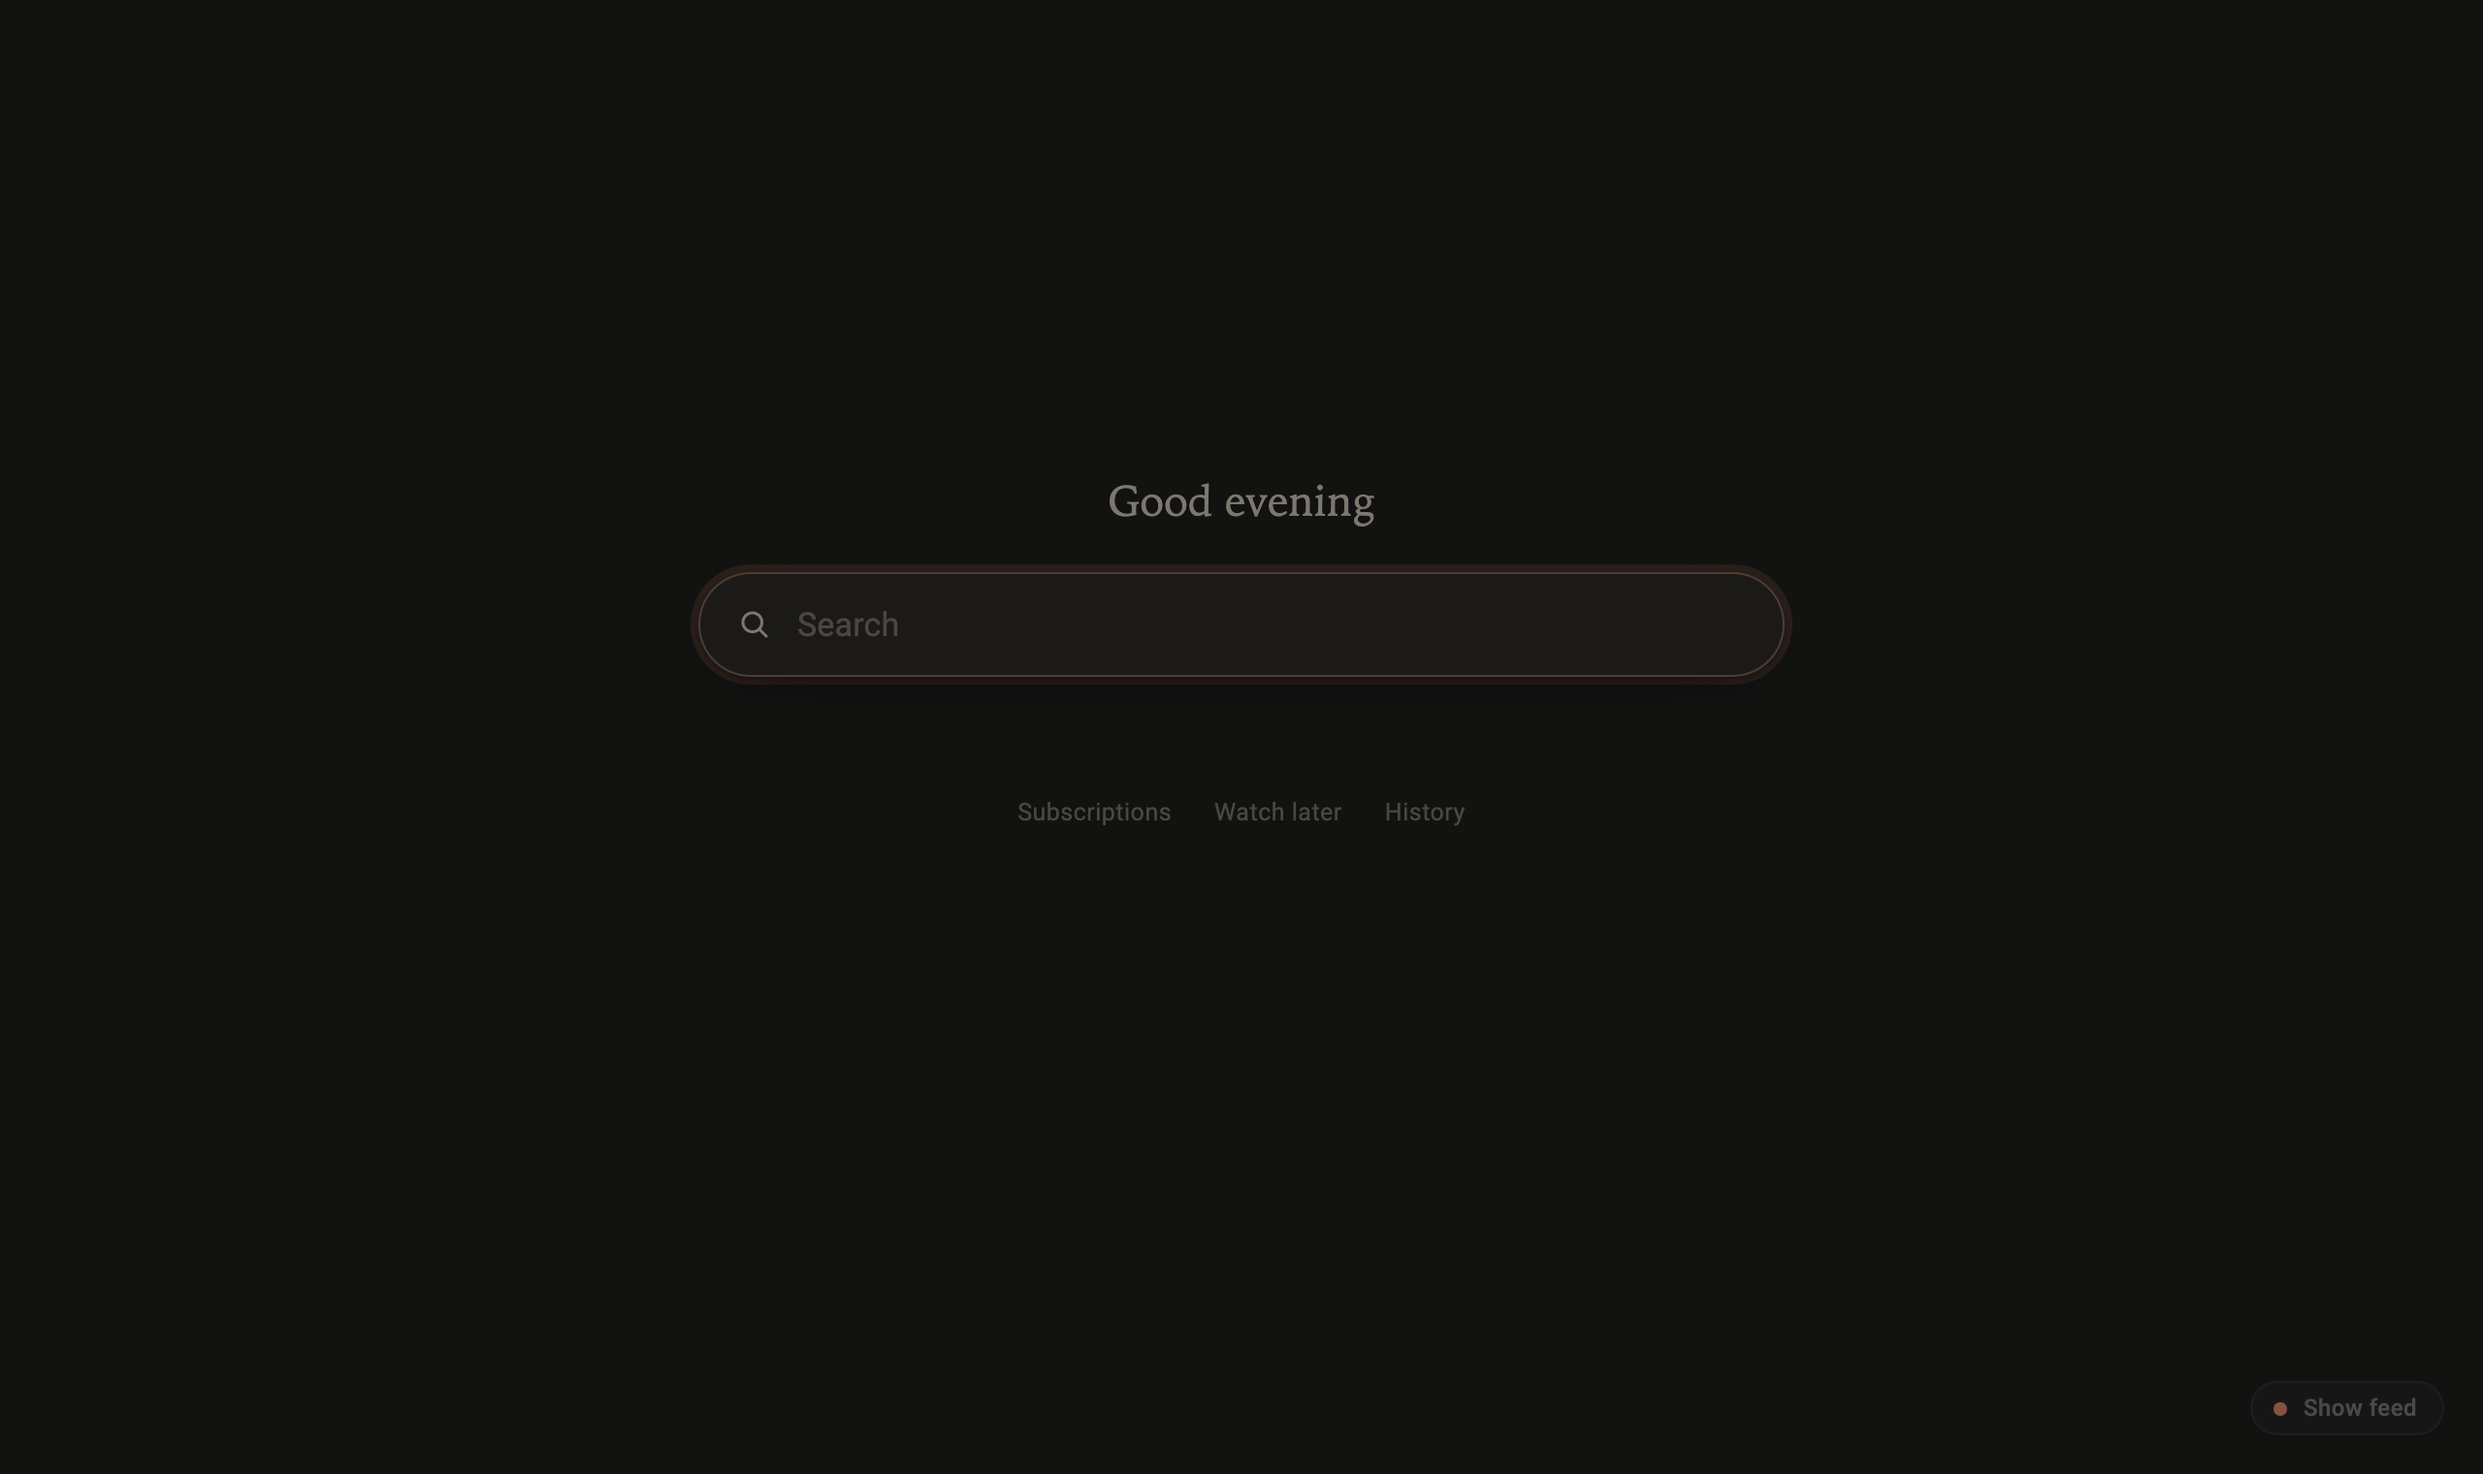
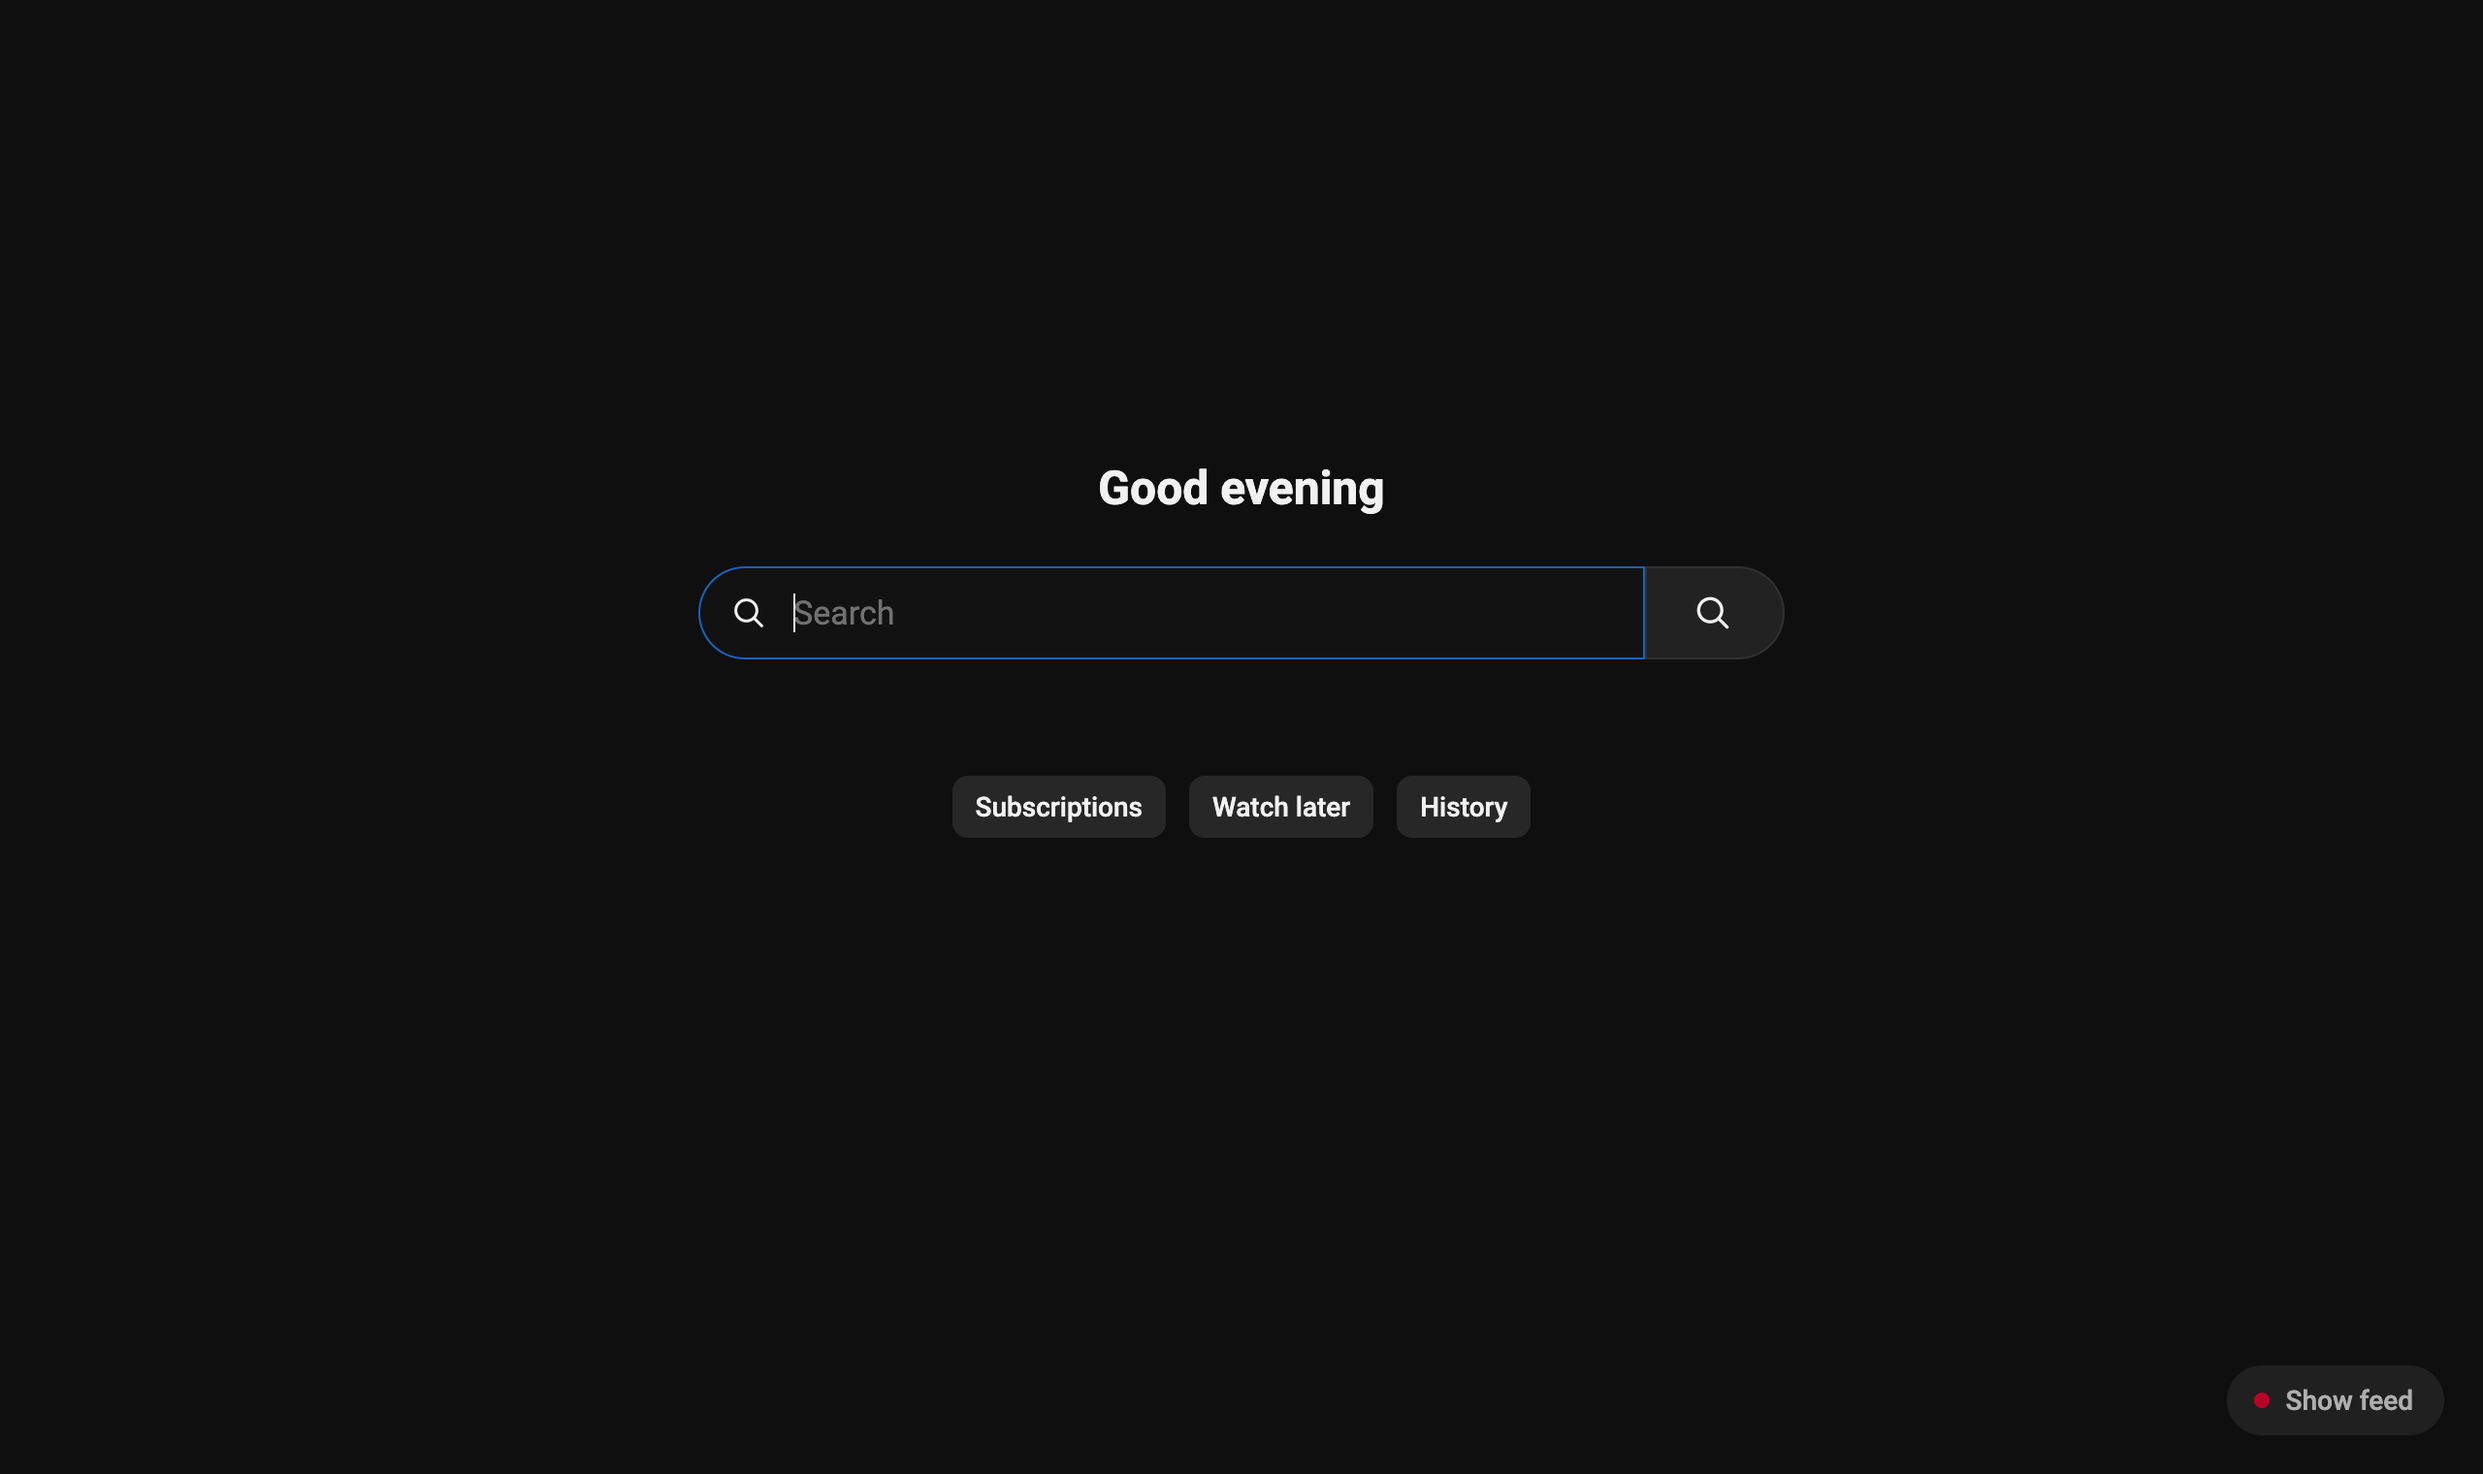
Restyle the calm page to match YouTube's look
Use YouTube's light/dark palette, a bold Roboto greeting, the familiar
two-part search box (pill input + grey search button, blue focus border,
in-box loupe on focus), filter-chip links and a pill-style toggle.
Refresh the README screenshots to match.

diff --git a/calm.css b/calm.css
@@ -2,16 +2,20 @@
 
 #calmyt-overlay,
 #calmyt-toggle {
-  --calmyt-bg: #f7f5f0;
-  --calmyt-text: #2b2825;
-  --calmyt-muted: #9b958c;
-  --calmyt-faint: #c4beb4;
-  --calmyt-field: #fffefb;
-  --calmyt-border: #e6e1d8;
-  --calmyt-border-focus: #d9c3b4;
-  --calmyt-ring: rgba(201, 111, 91, 0.11);
-  --calmyt-accent: #c96f5b;
-  --calmyt-shadow: 0 1px 2px rgba(60, 45, 30, 0.04), 0 8px 28px -12px rgba(60, 45, 30, 0.12);
+  --calmyt-bg: #ffffff;
+  --calmyt-text: #0f0f0f;
+  --calmyt-muted: #606060;
+  --calmyt-faint: #909090;
+  --calmyt-field: #ffffff;
+  --calmyt-border: #d3d3d3;
+  --calmyt-border-focus: #1c62b9;
+  --calmyt-button: #f8f8f8;
+  --calmyt-button-hover: #f0f0f0;
+  --calmyt-chip: rgba(0, 0, 0, 0.05);
+  --calmyt-chip-hover: rgba(0, 0, 0, 0.1);
+  --calmyt-ring: rgba(28, 98, 185, 0.18);
+  --calmyt-accent: #ff0033;
+  --calmyt-shadow: inset 0 1px 2px #eeeeee;
   font-family: "Roboto", "Arial", system-ui, sans-serif;
 }
 
@@ -20,31 +24,39 @@
 @media (prefers-color-scheme: dark) {
   html:not([dark]):not([light]) #calmyt-overlay,
   html[data-calmyt="on"]:not([dark]):not([light]) #calmyt-toggle {
-    --calmyt-bg: #121211;
-    --calmyt-text: #e8e4dd;
-    --calmyt-muted: #7c776f;
-    --calmyt-faint: #4a4641;
-    --calmyt-field: #1b1a19;
-    --calmyt-border: #2a2826;
-    --calmyt-border-focus: #4b3d35;
-    --calmyt-ring: rgba(233, 136, 108, 0.1);
-    --calmyt-accent: #e2876d;
-    --calmyt-shadow: 0 1px 2px rgba(0, 0, 0, 0.3), 0 10px 30px -14px rgba(0, 0, 0, 0.6);
+    --calmyt-bg: #0f0f0f;
+    --calmyt-text: #f1f1f1;
+    --calmyt-muted: #aaaaaa;
+    --calmyt-faint: #717171;
+    --calmyt-field: #121212;
+    --calmyt-border: #303030;
+    --calmyt-border-focus: #1c62b9;
+    --calmyt-button: #222222;
+    --calmyt-button-hover: #2a2a2a;
+    --calmyt-chip: rgba(255, 255, 255, 0.1);
+    --calmyt-chip-hover: rgba(255, 255, 255, 0.2);
+    --calmyt-ring: rgba(62, 166, 255, 0.25);
+    --calmyt-accent: #ff0033;
+    --calmyt-shadow: none;
   }
 }
 
 html[dark] #calmyt-overlay,
 html[dark] #calmyt-toggle {
-  --calmyt-bg: #121211;
-  --calmyt-text: #e8e4dd;
-  --calmyt-muted: #7c776f;
-  --calmyt-faint: #4a4641;
-  --calmyt-field: #1b1a19;
-  --calmyt-border: #2a2826;
-  --calmyt-border-focus: #4b3d35;
-  --calmyt-ring: rgba(233, 136, 108, 0.1);
-  --calmyt-accent: #e2876d;
-  --calmyt-shadow: 0 1px 2px rgba(0, 0, 0, 0.3), 0 10px 30px -14px rgba(0, 0, 0, 0.6);
+  --calmyt-bg: #0f0f0f;
+  --calmyt-text: #f1f1f1;
+  --calmyt-muted: #aaaaaa;
+  --calmyt-faint: #717171;
+  --calmyt-field: #121212;
+  --calmyt-border: #303030;
+  --calmyt-border-focus: #1c62b9;
+  --calmyt-button: #222222;
+  --calmyt-button-hover: #2a2a2a;
+  --calmyt-chip: rgba(255, 255, 255, 0.1);
+  --calmyt-chip-hover: rgba(255, 255, 255, 0.2);
+  --calmyt-ring: rgba(62, 166, 255, 0.25);
+  --calmyt-accent: #ff0033;
+  --calmyt-shadow: none;
 }
 
 /* ---------- hide the feed ---------- */
@@ -106,37 +118,48 @@ html[data-calmyt="on"] #calmyt-overlay {
 }
 
 .calmyt-greeting {
-  margin: 0 0 22px;
-  font-family: "Iowan Old Style", "Charter", "Georgia", serif;
-  font-size: 22px;
-  font-weight: 400;
-  letter-spacing: 0.01em;
-  color: var(--calmyt-muted);
+  margin: 0 0 24px;
+  font-size: 24px;
+  line-height: 32px;
+  font-weight: 700;
+  color: var(--calmyt-text);
   user-select: none;
 }
 
 .calmyt-field {
-  position: relative;
+  display: flex;
   width: 100%;
 }
 
-.calmyt-loupe {
-  position: absolute;
-  left: 20px;
-  top: 50%;
-  width: 18px;
-  height: 18px;
-  transform: translateY(-50%);
-  fill: none;
-  stroke: var(--calmyt-faint);
-  stroke-width: 2;
-  stroke-linecap: round;
-  pointer-events: none;
-  transition: stroke 0.2s ease;
+.calmyt-box {
+  position: relative;
+  flex: 1;
+  min-width: 0;
 }
 
-.calmyt-field:focus-within .calmyt-loupe {
-  stroke: var(--calmyt-muted);
+.calmyt-loupe {
+  width: 20px;
+  height: 20px;
+  fill: none;
+  stroke: currentColor;
+  stroke-width: 1.8;
+  stroke-linecap: round;
+  pointer-events: none;
+}
+
+/* Like YouTube: a loupe appears inside the box only while it's focused. */
+.calmyt-box .calmyt-loupe {
+  position: absolute;
+  left: 16px;
+  top: 50%;
+  transform: translateY(-50%);
+  color: var(--calmyt-text);
+  opacity: 0;
+  transition: opacity 0.15s ease;
+}
+
+.calmyt-box:focus-within .calmyt-loupe {
+  opacity: 1;
 }
 
 #calmyt-q {
@@ -144,17 +167,16 @@ html[data-calmyt="on"] #calmyt-overlay {
   box-sizing: border-box;
   display: block;
   width: 100%;
-  height: 54px;
-  padding: 0 24px 0 50px;
-  border-radius: 27px;
+  height: 48px;
+  padding: 0 4px 0 20px;
+  border-radius: 24px 0 0 24px;
   border: 1px solid var(--calmyt-border);
+  border-right: none;
   background: var(--calmyt-field);
   color: var(--calmyt-text);
-  caret-color: var(--calmyt-accent);
-  font: 400 17px/54px "Roboto", "Arial", system-ui, sans-serif;
-  letter-spacing: 0.005em;
+  font: 400 17px/46px "Roboto", "Arial", system-ui, sans-serif;
   box-shadow: var(--calmyt-shadow);
-  transition: border-color 0.2s ease, box-shadow 0.2s ease;
+  transition: border-color 0.15s ease, padding 0.15s ease;
 }
 
 #calmyt-q::placeholder {
@@ -163,12 +185,45 @@ html[data-calmyt="on"] #calmyt-overlay {
 }
 
 #calmyt-q:focus {
+  padding-left: 48px;
   border-color: var(--calmyt-border-focus);
-  box-shadow: var(--calmyt-shadow), 0 0 0 4px var(--calmyt-ring);
+  border-right: 1px solid var(--calmyt-border-focus);
 }
 
 #calmyt-q::selection {
   background: var(--calmyt-ring);
+}
+
+.calmyt-submit {
+  all: unset;
+  box-sizing: border-box;
+  display: flex;
+  align-items: center;
+  justify-content: center;
+  flex: none;
+  width: 72px;
+  height: 48px;
+  border: 1px solid var(--calmyt-border);
+  border-radius: 0 24px 24px 0;
+  background: var(--calmyt-button);
+  color: var(--calmyt-text);
+  cursor: pointer;
+  transition: background 0.15s ease;
+}
+
+.calmyt-submit .calmyt-loupe {
+  width: 22px;
+  height: 22px;
+  margin-right: 2px;
+}
+
+.calmyt-submit:hover {
+  background: var(--calmyt-button-hover);
+}
+
+.calmyt-submit:focus-visible {
+  outline: 2px solid var(--calmyt-border-focus);
+  outline-offset: 2px;
 }
 
 .calmyt-hint {
@@ -199,29 +254,42 @@ html[data-calmyt="on"] #calmyt-overlay {
 .calmyt-hint kbd {
   font: inherit;
   padding: 1px 6px;
-  border: 1px solid var(--calmyt-border);
-  border-radius: 5px;
+  border-radius: 4px;
+  background: var(--calmyt-chip);
   color: var(--calmyt-muted);
 }
 
 .calmyt-links {
   display: flex;
-  gap: 22px;
-  margin-top: 30px;
-  font-size: 12.5px;
-  letter-spacing: 0.02em;
+  flex-wrap: wrap;
+  justify-content: center;
+  gap: 12px;
+  margin-top: 28px;
 }
 
+/* YouTube's filter chips */
 .calmyt-links a {
-  color: var(--calmyt-faint);
+  display: inline-flex;
+  align-items: center;
+  height: 32px;
+  padding: 0 12px;
+  border-radius: 8px;
+  background: var(--calmyt-chip);
+  color: var(--calmyt-text);
+  font-size: 14px;
+  font-weight: 500;
+  line-height: 20px;
   text-decoration: none;
-  transition: color 0.2s ease;
+  transition: background 0.15s ease;
 }
 
-.calmyt-links a:hover,
+.calmyt-links a:hover {
+  background: var(--calmyt-chip-hover);
+}
+
 .calmyt-links a:focus-visible {
-  color: var(--calmyt-text);
-  outline: none;
+  outline: 2px solid var(--calmyt-border-focus);
+  outline-offset: 2px;
 }
 
 /* ---------- toggle ---------- */
@@ -235,19 +303,18 @@ html[data-calmyt="on"] #calmyt-overlay {
   align-items: center;
   gap: 8px;
   margin: 0;
-  padding: 7px 13px 7px 11px;
-  border: 1px solid var(--calmyt-border);
-  border-radius: 999px;
-  background: var(--calmyt-field);
-  color: var(--calmyt-muted);
-  font-size: 12px;
+  height: 36px;
+  padding: 0 16px 0 14px;
+  border: none;
+  border-radius: 18px;
+  background: var(--calmyt-chip);
+  color: var(--calmyt-text);
+  font-size: 14px;
   font-weight: 500;
-  letter-spacing: 0.02em;
-  line-height: 1;
+  line-height: 36px;
   cursor: pointer;
-  opacity: 0.55;
-  box-shadow: var(--calmyt-shadow);
-  transition: opacity 0.2s ease, color 0.2s ease, border-color 0.2s ease;
+  opacity: 0.7;
+  transition: opacity 0.15s ease, background 0.15s ease;
 }
 
 html[data-calmyt] #calmyt-toggle {
@@ -257,14 +324,13 @@ html[data-calmyt] #calmyt-toggle {
 #calmyt-toggle:hover,
 #calmyt-toggle:focus-visible {
   opacity: 1;
-  color: var(--calmyt-text);
-  border-color: var(--calmyt-border-focus);
+  background: var(--calmyt-chip-hover);
   outline: none;
 }
 
 .calmyt-toggle-dot {
-  width: 7px;
-  height: 7px;
+  width: 8px;
+  height: 8px;
   border-radius: 50%;
   border: 1.5px solid var(--calmyt-accent);
   box-sizing: border-box;

diff --git a/content.js b/content.js
@@ -110,7 +110,9 @@
       'form',
       { id: 'calmyt-form', role: 'search', action: '/results', method: 'get' },
       h('p', { class: 'calmyt-greeting' }, greeting()),
-      h('div', { class: 'calmyt-field' }, loupe(), input),
+      h('div', { class: 'calmyt-field' },
+        h('div', { class: 'calmyt-box' }, loupe(), input),
+        h('button', { class: 'calmyt-submit', type: 'submit', title: 'Search', 'aria-label': 'Search' }, loupe())),
       h('p', { class: 'calmyt-hint', 'aria-hidden': 'true' },
         h('span', { class: 'calmyt-hint-idle' }, 'just start typing'),
         h('span', { class: 'calmyt-hint-ready' }, 'press ', h('kbd', {}, 'enter'), ' to search')),

diff --git a/README.md b/README.md
@@ -14,7 +14,7 @@
 ## What it does
 
 - **No home feed.** Recommendations, Shorts shelves and the masthead ad are hidden before the first paint, and the grid is never rendered, so thumbnails and hover previews don't load either.
-- **One search bar** with a short greeting. Start typing anywhere on the page (or press `/`) and the text goes into the box. `Enter` searches, `Esc` clears.
+- **One YouTube-style search bar** with a short greeting. Start typing anywhere on the page (or press `/`) and the text goes into the box. `Enter` searches, `Esc` clears.
 - **Three quiet links** under it: Subscriptions, Watch later, History. These are places you picked yourself.
 - **A toggle in the bottom-right corner** (`Show feed` / `Calm mode`) puts the normal home page back. Your choice is remembered and stays in sync across tabs.
 - **Toolbar button and `Alt+Shift+Y`** do the same toggle. Press either from any other page and you're taken to calm search.
